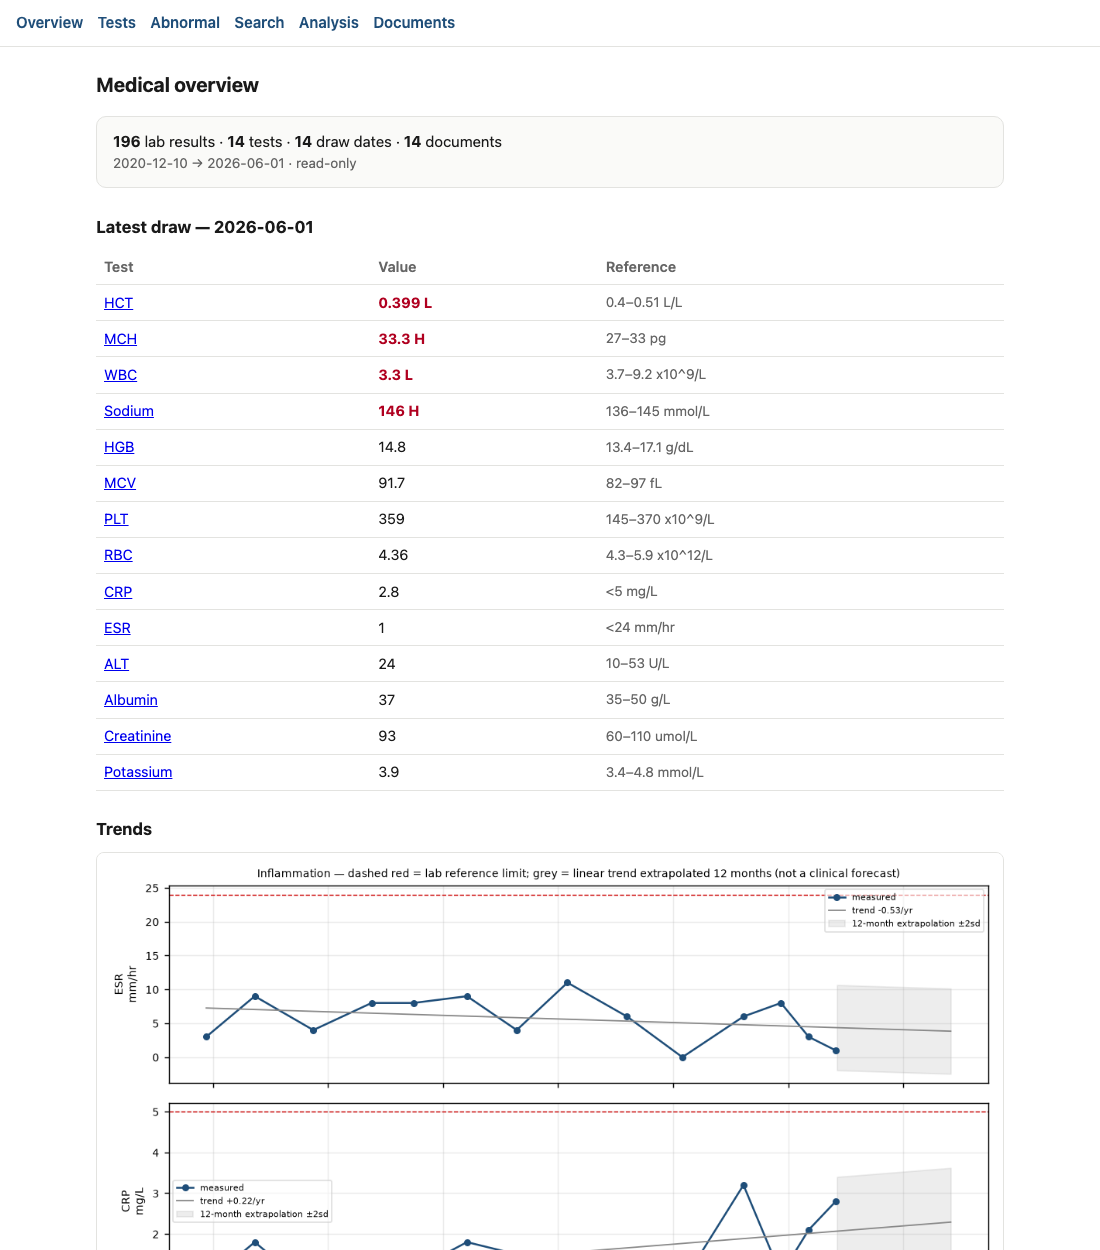
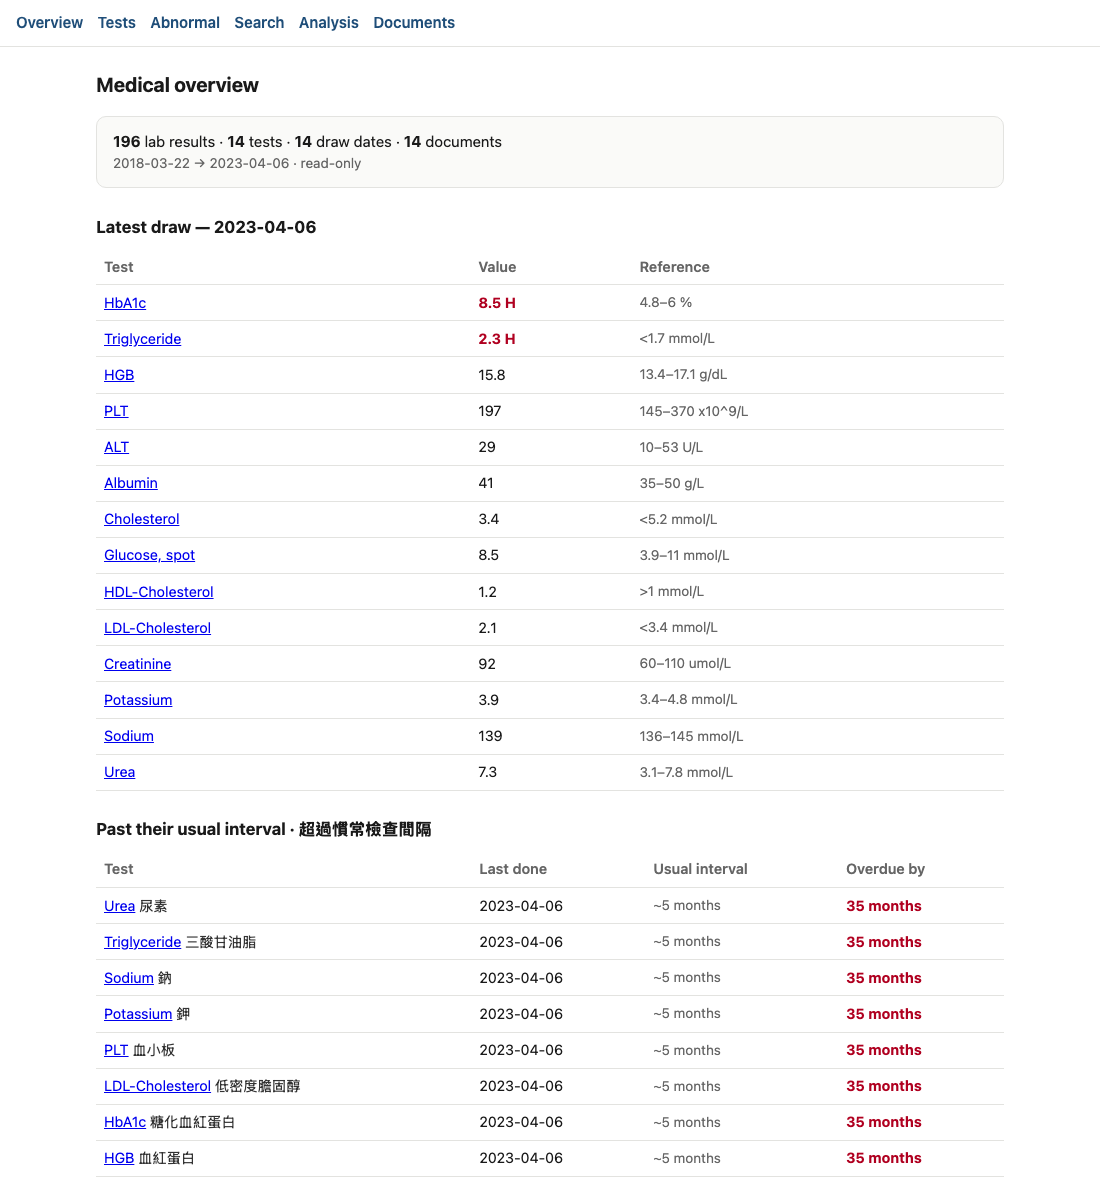
Make the demo an invented diabetes patient, not a mirror of the author
Sample data that resembles the author's own condition is not really anonymous,
and the previous demo borrowed a real last-draw date as its anchor. The persona
is now a type 2 diabetes follow-up — HbA1c, glucose, lipids, kidney function,
no inflammatory markers — on arbitrary dates that share nothing with any real
record.

Screenshots regenerated from it.

diff --git a/demo/make_demo_db.py b/demo/make_demo_db.py
@@ -1,12 +1,16 @@
 """Build a demo database from synthetic data — no real records involved.
 
-Used for the screenshots in the README and as a fixture to develop against, so
-nobody has to point the tools at real medical data to see them work, and no
-real values can end up in a public image.
+A fixture to develop and screenshot against, so nobody has to point the tools
+at real medical data to see them work.
 
-The numbers are generated, the name is invented, and the dates are arbitrary.
-They are plausible enough to exercise the UI and the statistics, and mean
-nothing.
+The persona is an invented type 2 diabetes patient on routine follow-up:
+HbA1c, glucose, lipids and kidney function. That profile was chosen precisely
+because it resembles nobody involved in this project — sample data that mirrors
+the author's own condition is not really anonymous.
+
+Every number comes from a seeded random generator, the name is made up, and the
+dates are arbitrary. Plausible enough to exercise the UI and the statistics,
+and describing no one.
 
     python3 demo/make_demo_db.py            # -> demo/demo.db
 """
@@ -23,32 +27,33 @@ sys.path.insert(0, str(HERE.parent / "analyse"))
 import build_db as bd                                   # noqa: E402
 
 DB = Path(sys.argv[1]) if len(sys.argv) > 1 else HERE / "demo.db"
-RNG = random.Random(20260812)          # fixed seed: the demo is reproducible
+RNG = random.Random(1234)              # fixed seed: the demo is reproducible
 
+# An invented type 2 diabetes follow-up panel.
 # (analyte, unit, ref_low, ref_high, mean, sd, decimals)
 PANEL = [
-    ("ESR", "mm/hr", None, 24.0, 9, 4, 0),
-    ("CRP", "mg/L", None, 5.0, 1.2, 0.6, 1),
-    ("HGB", "g/dL", 13.4, 17.1, 14.4, 0.6, 1),
-    ("HCT", "L/L", 0.400, 0.510, 0.44, 0.02, 3),
-    ("RBC", "x10^12/L", 4.30, 5.90, 5.0, 0.3, 2),
-    ("MCV", "fL", 82.0, 97.0, 88.0, 3.0, 1),
-    ("MCH", "pg", 27.0, 33.0, 30.0, 1.2, 1),
-    ("WBC", "x10^9/L", 3.7, 9.2, 6.2, 1.1, 1),
-    ("PLT", "x10^9/L", 145, 370, 250, 35, 0),
-    ("Creatinine", "umol/L", 60, 110, 80, 8, 0),
-    ("ALT", "U/L", 10, 53, 26, 8, 0),
-    ("Albumin", "g/L", 35, 50, 43, 2, 0),
+    ("HbA1c", "%", 4.8, 6.0, 7.4, 0.5, 1),
+    ("Glucose, spot", "mmol/L", 3.9, 11.0, 8.6, 1.6, 1),
+    ("Cholesterol", "mmol/L", None, 5.2, 4.9, 0.5, 1),
+    ("LDL-Cholesterol", "mmol/L", None, 3.4, 3.1, 0.4, 1),
+    ("HDL-Cholesterol", "mmol/L", 1.0, None, 1.1, 0.15, 1),
+    ("Triglyceride", "mmol/L", None, 1.7, 1.9, 0.4, 1),
+    ("Creatinine", "umol/L", 60, 110, 96, 9, 0),
+    ("Urea", "mmol/L", 3.1, 7.8, 6.2, 0.9, 1),
     ("Sodium", "mmol/L", 136, 145, 140, 2, 0),
-    ("Potassium", "mmol/L", 3.4, 4.8, 4.1, 0.3, 1),
+    ("Potassium", "mmol/L", 3.4, 4.8, 4.2, 0.3, 1),
+    ("ALT", "U/L", 10, 53, 38, 11, 0),
+    ("Albumin", "g/L", 35, 50, 42, 2, 0),
+    ("HGB", "g/dL", 13.4, 17.1, 13.9, 0.6, 1),
+    ("PLT", "x10^9/L", 145, 370, 262, 32, 0),
 ]
 CATEGORY = {a: bd.OF_CATEGORY.get(a) for a, *_ in PANEL}
 
 DOC_TEXT = """Hospital Authority                     Lab No: DEMO0000001
-Demo Hospital                          Name: DOE, JOHN (DEMO)
+Demo Hospital                          Name: SAMPLE, PATIENT (DEMO)
                                        HKID No: A000000(0)
 Chemical Pathology Laboratory          Doctor: DEMO, CLINICIAN
-Clinical Details: demonstration data only
+Clinical Details: Type 2 diabetes, routine follow-up (demonstration data)
 
 This document contains generated sample values for demonstration. It is not a
 medical record and describes nobody. Every figure was produced by a random
@@ -57,7 +62,10 @@ number generator.
 
 
 def draws(n=14):
-    d = date(2026, 6, 1)
+    # An arbitrary anchor, deliberately not derived from any real record. An
+    # earlier version used a real last-draw date, which is exactly the kind of
+    # detail that makes "anonymous" sample data identifiable.
+    d = date(2024, 5, 8) - timedelta(days=RNG.randint(0, 400))
     out = []
     for _ in range(n):
         out.append(d)

diff --git a/README.md b/README.md
@@ -21,11 +21,11 @@
 </p>
 
 <p align="center">
-  <img src="docs/assets/screenshot-overview.png" alt="Overview: latest draw and trend charts" width="49%">
-  <img src="docs/assets/screenshot-test.png" alt="A single test over time, with trend and next-test estimate" width="49%">
+  <img src="docs/assets/screenshot-overview.png" alt="Overview: latest draw, overdue tests and trend charts" width="49%">
+  <img src="docs/assets/screenshot-test.png" alt="One test over time, with trend and next-test estimate" width="49%">
 </p>
-<p align="center"><sub>Screenshots use generated sample data
-(<code>demo/make_demo_db.py</code>) — no real records.</sub></p>
+<p align="center"><sub>Sample data only — an invented type 2 diabetes patient
+generated by <code>demo/make_demo_db.py</code>. No real records.</sub></p>
 
 ---
 
